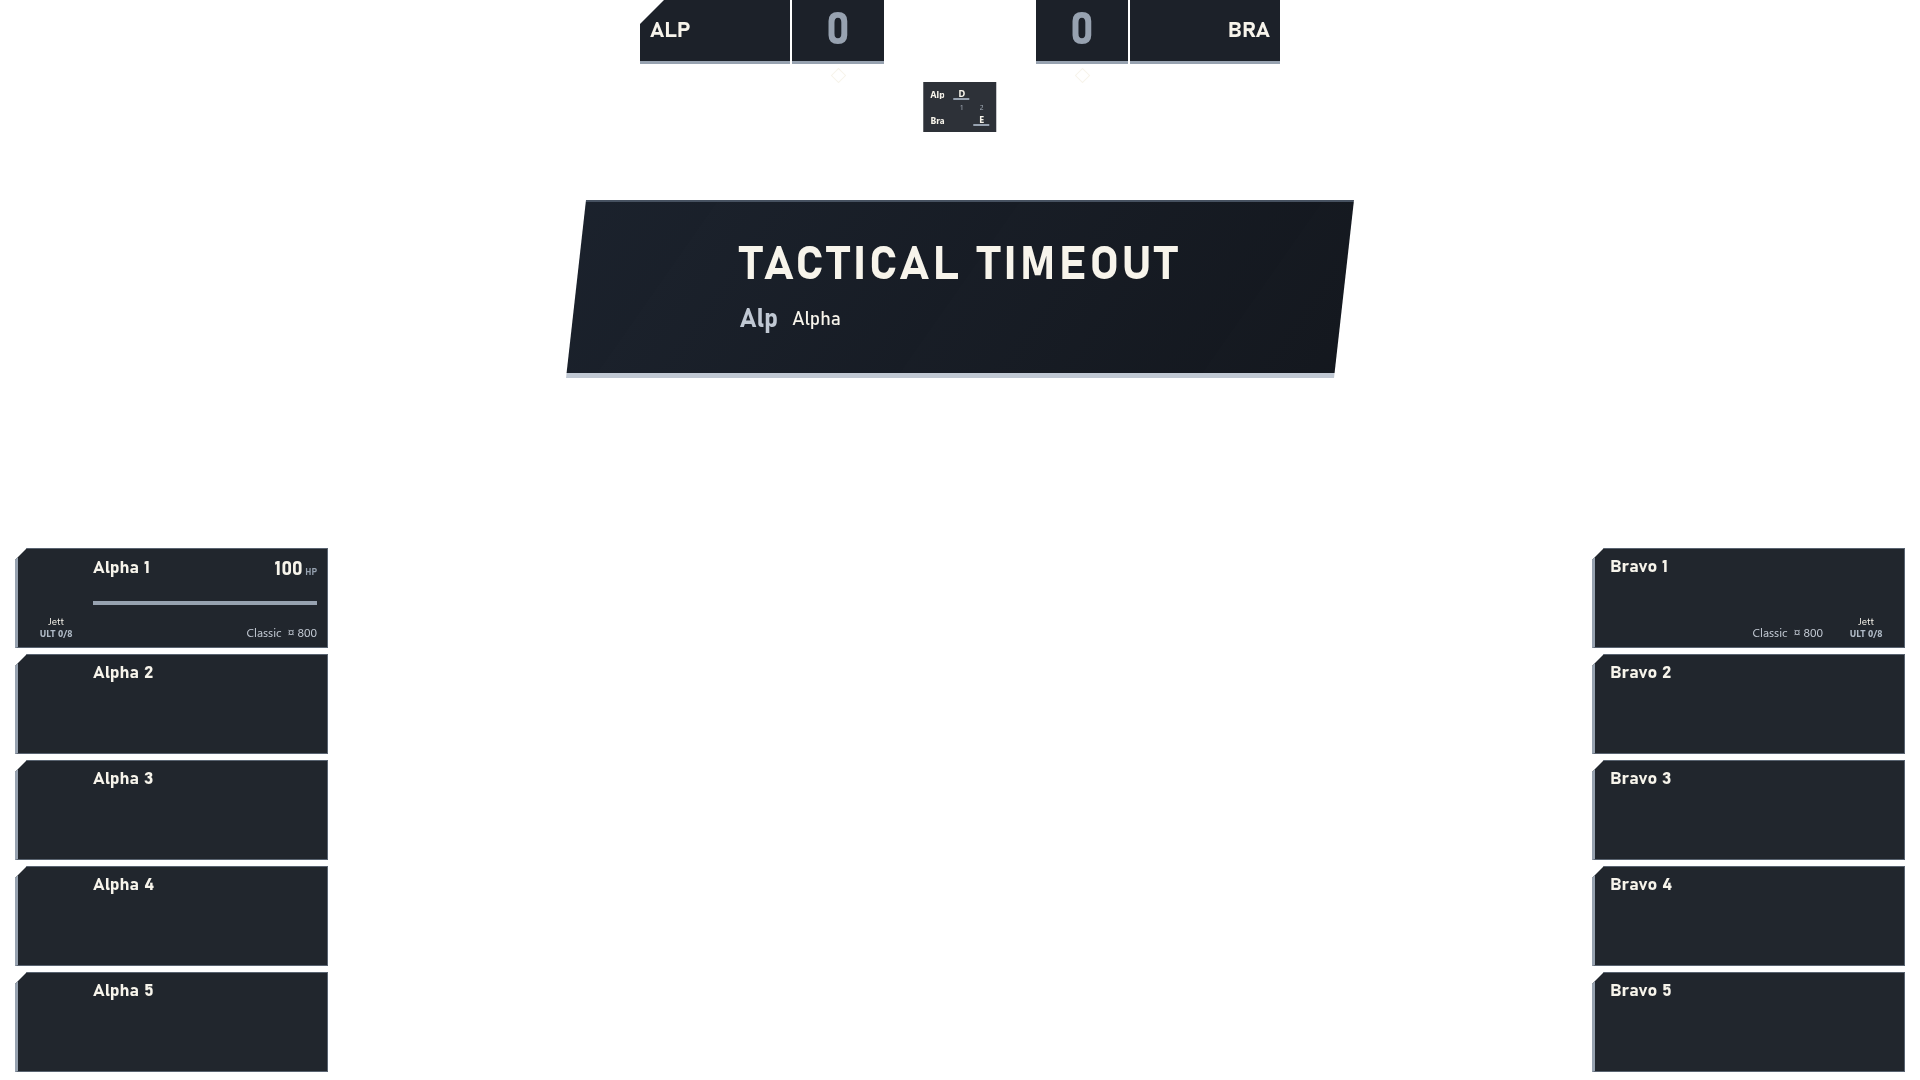
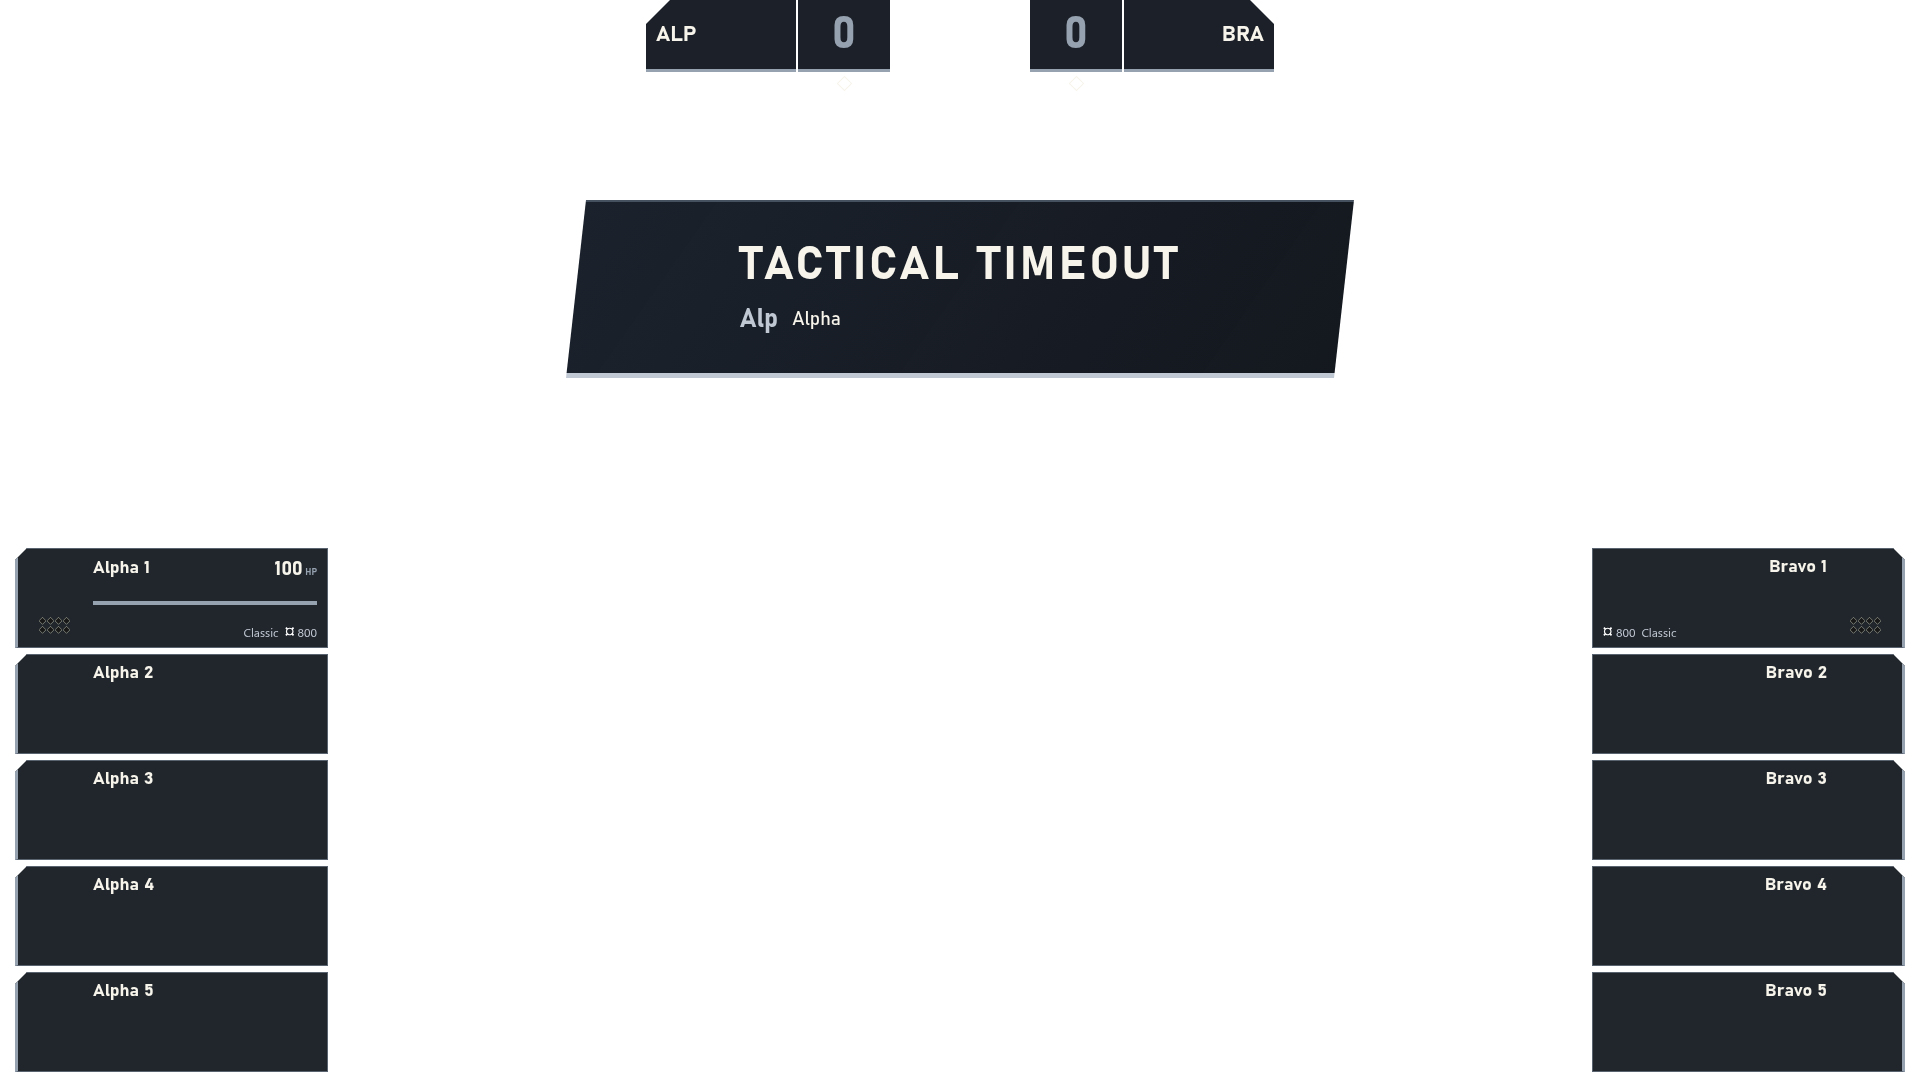
update docs

diff --git a/docs/feature-description/animations-for-all-gfx.md b/docs/feature-description/animations-for-all-gfx.md
@@ -2,4 +2,4 @@
 
 ## Goal
 
-Use GSAP/Anime.JS to run high-fidelty animations for all the available graphics.
+Use GSAP/Anime.JS to run high-quality animations for all the available graphics.
